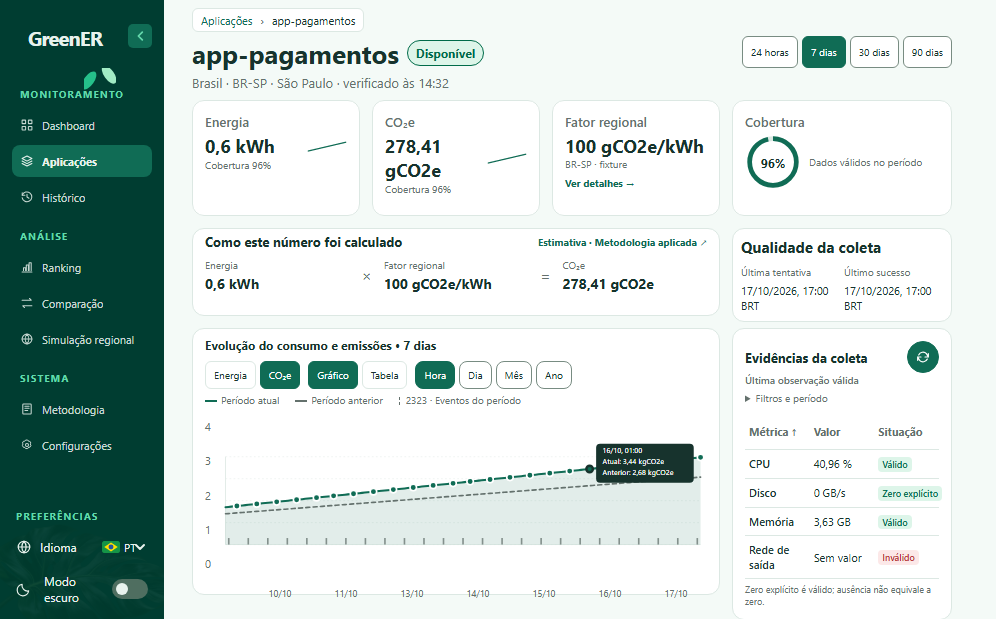
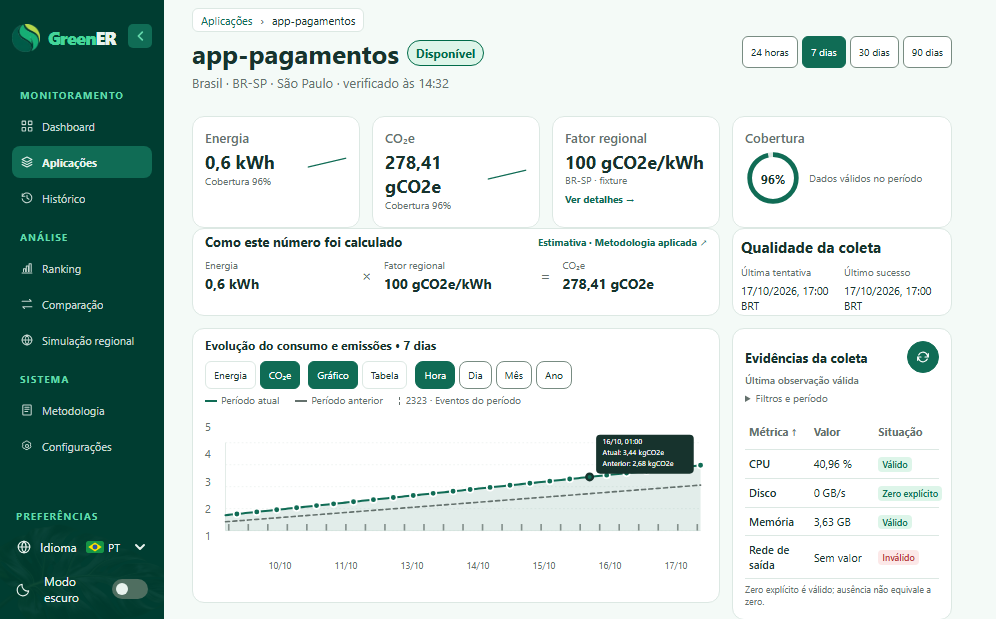
fix(frontend): estabilizar detalhe e escala ambiental

diff --git a/frontend/e2e/application-detail.spec.ts b/frontend/e2e/application-detail.spec.ts
@@ -73,10 +73,11 @@ test('detail reference viewport keeps the sidebar fixed and free of scrollbars',
       regions: (() => {
         const main = document.querySelector<HTMLElement>('main')!
         const analysis = main.children[2] as HTMLElement
-        const metricCards = analysis.children[0].querySelector<HTMLElement>('div')!
-        return [metricCards, analysis.children[1], analysis.children[2], analysis.children[3], analysis.children[4], analysis.children[5]].map(element => {
+        const noticeHeight = (analysis.children[0].children[1] as HTMLElement).getBoundingClientRect().height
+        const metricCards = analysis.children[0].querySelectorAll<HTMLElement>(':scope > div')[1]
+        return [metricCards.firstElementChild as HTMLElement, analysis.children[1].firstElementChild as HTMLElement, analysis.children[2], analysis.children[3].firstElementChild as HTMLElement, analysis.children[4], analysis.children[5]].map(element => {
           const rect = element.getBoundingClientRect()
-          return { className: (element as HTMLElement).className, x: rect.x, y: rect.y, width: rect.width, height: rect.height }
+          return { className: (element as HTMLElement).className, x: rect.x, y: rect.y, width: rect.width, height: rect.height, noticeHeight }
         })
       })(),
     }
@@ -89,12 +90,14 @@ test('detail reference viewport keeps the sidebar fixed and free of scrollbars',
   expect.soft(before.sidebarTop).toBe(0)
   expect.soft(before.sidebarRight).toBeGreaterThan(160)
   const [metrics, coverage, calculation, freshness, series, evidence] = before.regions
+  expect.soft(metrics.noticeHeight).toBe(16)
   expect.soft(metrics.x).toBeLessThan(coverage.x)
   expect.soft(Math.abs(metrics.y - coverage.y)).toBeLessThanOrEqual(2)
   expect.soft(Math.abs(metrics.height - coverage.height)).toBeLessThanOrEqual(2)
   expect.soft(calculation.x).toBe(metrics.x)
   expect.soft(freshness.x).toBe(coverage.x)
   expect.soft(Math.abs(calculation.y - freshness.y)).toBeLessThanOrEqual(2)
+  expect.soft(Math.abs(calculation.height - freshness.height)).toBeLessThanOrEqual(2)
   expect.soft(series.x).toBe(metrics.x)
   expect.soft(evidence.x).toBe(coverage.x)
   expect.soft(Math.abs(series.y - evidence.y)).toBeLessThanOrEqual(2)
@@ -116,7 +119,7 @@ test('detail reference viewport keeps the sidebar fixed and free of scrollbars',
   await expect(page.getByRole('group', { name: 'Métrica' }).getByRole('button', { name: 'CO₂e' })).toHaveAttribute('aria-pressed', 'true')
   await expect(page.locator('.eventSummary')).toHaveCount(0)
   await expect(page.getByText(/2323 · Eventos do período/)).toBeVisible()
-  await expect.poll(() => page.getByRole('figure', { name: /Evolução de CO₂e/ }).evaluate(chart => chart.getBoundingClientRect().height)).toBe(176)
+  await expect.poll(() => page.getByRole('figure', { name: /Evolução de CO₂e/ }).evaluate(chart => chart.getBoundingClientRect().height)).toBe(148)
   await expect(page.locator('[data-metric-sparkline]')).toHaveCount(2)
   await expect(page.locator('[data-coverage-ring]')).toHaveCount(1)
   await expect(page.getByRole('heading', { name: 'Evolução do consumo e emissões • 7 dias' })).toBeVisible()
@@ -149,7 +152,7 @@ test('detail reference viewport keeps the sidebar fixed and free of scrollbars',
   expect(afterScroll.layoutPosition).toBe('fixed')
   expect(afterScroll.sidebarTop).toBe(before.sidebarTop)
   await page.screenshot({ path: '../.github/evidencias/65-integracao-ambiental/detail-desktop-light-figma-alinhado.png' })
-  await page.getByRole('button', { name: 'Ver detalhes' }).click()
+  await page.getByRole('button', { name: 'Ver detalhes' }).click({ timeout: 10_000 })
   await expect(page.locator('#analysis-details')).toHaveAttribute('open', '')
   await expect(page.locator('#analysis-details')).toContainText('2026.1')
 
@@ -162,6 +165,7 @@ test('detail reference viewport keeps the sidebar fixed and free of scrollbars',
   })
   expect.soft(wideViewport.workspaceContentHeight).toBeLessThanOrEqual(wideViewport.workspaceHeight + 1)
   expect.soft(wideViewport.sidebarContentHeight).toBeLessThanOrEqual(wideViewport.sidebarHeight + 1)
+  await expect.poll(() => page.getByRole('figure', { name: /Evolução de CO₂e/ }).evaluate(chart => chart.getBoundingClientRect().height)).toBeGreaterThan(176)
   await page.screenshot({ path: '../.github/evidencias/65-integracao-ambiental/detail-desktop-wide-diagnostic.png' })
 
   await page.setViewportSize({ width: 390, height: 844 })
@@ -625,10 +629,13 @@ test('detail sidebar matches the catalog and collapses without clipping English'
   const languageCode = page.locator('.language-code')
   await expect(languageCode).toContainText('EN')
   const flagBounds = await languageCode.boundingBox()
+  const chevronBounds = await page.locator('.language-chevron').boundingBox()
   const sidebarBounds = await sidebar.boundingBox()
   expect(flagBounds).not.toBeNull()
+  expect(chevronBounds).not.toBeNull()
   expect(sidebarBounds).not.toBeNull()
   expect(flagBounds!.x + flagBounds!.width).toBeLessThanOrEqual(sidebarBounds!.x + sidebarBounds!.width)
+  expect(chevronBounds!.x - (flagBounds!.x + flagBounds!.width)).toBeGreaterThanOrEqual(12)
 
   await page.getByRole('button', { name: 'Collapse navigation' }).click()
   await expect.poll(() => sidebar.evaluate((element) => element.getBoundingClientRect().width)).toBe(72)

diff --git a/frontend/src/pages/detail/AnalysisSeries.tsx b/frontend/src/pages/detail/AnalysisSeries.tsx
@@ -1,7 +1,7 @@
 import { useEffect, useState, type ReactNode } from 'react'
 import type { AnalysisPresentationReason, AnalysisReading, AnalysisSeriesEvent, AnalysisSeriesPoint, AnalysisSeriesResult } from '../../features/analysis/source.ts'
 import { formatInstantForDateTimeInput, getBrowserTimeZone, parseDateTimeInputInZone, parseAnalysisSeriesPageSize, parseAnalysisSeriesReadingStatus, type AnalysisSeriesPageSize, type AnalysisSeriesQuery } from './seriesQuery.ts'
-import { collectSeriesUnits, formatSeriesNumber, formatSeriesReading, hasInvalidDateRange, readNumericRange, readSeriesRowRange, selectSeriesPoints } from './analysisSeriesData.ts'
+import { chartDomain, collectSeriesUnits, formatSeriesNumber, formatSeriesReading, hasInvalidDateRange, readNumericRange, readSeriesRowRange, selectSeriesPoints } from './analysisSeriesData.ts'
 import styles from './AnalysisSeries.module.css'
 
 type Labels = Readonly<{
@@ -144,12 +144,12 @@ function Chart({ points, comparisonPoints, events, metric, label, locale, timeZo
             : null
         })
         const validValues = [...values, ...comparisonValues].flatMap(point => point ? [point.value] : [])
-        const max = Math.max(...validValues)
-        const chartMax = Math.max(4, Math.ceil(max / 4) * 4)
+        const domain = chartDomain(validValues)
+        const chartRange = domain.maximum - domain.minimum
         const coordinates: (PlotPoint | null)[] = values.map(point => point && ({
           id: point.id,
           x: maxTime === minTime ? 300 : 8 + ((point.time - minTime) / (maxTime - minTime)) * 584,
-          y: 128 - (point.value / chartMax) * 108,
+          y: 128 - ((point.value - domain.minimum) / chartRange) * 108,
         }))
         const segments = chartSegments(coordinates, true)
         const interactivePoints = new Map<number, { point: PlotPoint; reading: NonNullable<typeof values[number]> }>()
@@ -178,7 +178,7 @@ function Chart({ points, comparisonPoints, events, metric, label, locale, timeZo
         const comparisonCoordinates: (PlotPoint | null)[] = comparisonValues.map(point => point && ({
           id: point.id,
           x: comparisonMaxTime === comparisonMinTime ? 300 : 8 + ((point.time - comparisonMinTime) / (comparisonMaxTime - comparisonMinTime)) * 584,
-          y: 128 - (point.value / chartMax) * 108,
+          y: 128 - ((point.value - domain.minimum) / chartRange) * 108,
         }))
         const comparisonSegments = chartSegments(comparisonCoordinates, false)
         const activePointIndex = chronological.findIndex(point => point.id === activePointId)
@@ -192,13 +192,13 @@ function Chart({ points, comparisonPoints, events, metric, label, locale, timeZo
         ])
         const hasGaps = chronological.some(point => point[metric].status !== 'available' || (point[metric].status === 'available' && point[metric].unit !== unit))
         return <div key={unit} className={styles.unitChart}>
-          <p className={styles.axisSummary}>0 - {formatAnalysisNumber(chartMax, locale)} {displayUnit}</p>
+          <p className={styles.axisSummary}>{formatAnalysisNumber(domain.minimum, locale)} - {formatAnalysisNumber(domain.maximum, locale)} {displayUnit}</p>
           <div className={styles.legend}><span className={styles.currentLegend}>{labels.currentPeriod}</span>
             {comparisonSegments.length > 0 && <span className={styles.previousLegend}>{labels.previousPeriod}</span>}
             {visibleEventCount > 0 && <span className={styles.eventLegend}>{visibleEventCount} · {labels.eventsHeading}</span>}</div>
           <div className={styles.plot}>
             <div className={styles.yAxis} aria-hidden="true">{Array.from({ length: 5 }, (_, index) =>
-              <span key={index}>{formatAnalysisNumber(chartMax * (4 - index) / 4, locale)}</span>)}</div>
+              <span key={index}>{formatAnalysisNumber(domain.maximum - domain.step * index, locale)}</span>)}</div>
             <figure className={styles.chartFigure} aria-label={`${label} (${displayUnit}): ${accessiblePoints}`}>
             <svg className={styles.chart} viewBox="0 0 600 144" role="group" aria-label={`${label} (${displayUnit}): ${accessiblePoints}`}>
               {Array.from({ length: 5 }, (_, index) => <line key={index} className={styles.grid} x1="8" y1={20 + index * 27} x2="592" y2={20 + index * 27} />)}

diff --git a/frontend/src/pages/detail/EnvironmentalAnalysis.module.css b/frontend/src/pages/detail/EnvironmentalAnalysis.module.css
@@ -1,14 +1,17 @@
-.analysisLayout { display: grid; grid-template-columns: minmax(0, 2.65fr) minmax(220px, 1fr); grid-template-rows: 116px 88px minmax(0, 1fr); gap: 12px; min-height: 0; }
+.analysisLayout { display: grid; grid-template-columns: minmax(0, 2.65fr) minmax(220px, 1fr); grid-template-rows: 120px 88px minmax(0, 1fr); gap: 12px; min-height: 0; }
 .screenReaderOnly { position: absolute; width: 1px; height: 1px; padding: 0; margin: -1px; overflow: hidden; border: 0; clip: rect(0, 0, 0, 0); white-space: nowrap; }
 .section { min-width: 0; margin: 0; }
-.analysisNotice { display: flex; align-items: center; flex-wrap: wrap; gap: 4px 12px; margin-bottom: 8px; color: var(--warning-foreground); font-size: 12px; }
+.analysisNotice { box-sizing: border-box; display: flex; height: 16px; min-height: 16px; align-items: center; flex-wrap: wrap; gap: 4px 12px; overflow: hidden; color: var(--warning-foreground); font-size: 12px; }
+.analysisNotice > output { line-height: 16px; white-space: nowrap; }
 .analysisNotice p, .analysisNotice output { margin: 0; font-size: inherit; }
 .analysisNotice :global(.action-button) { min-height: 28px; padding: 4px 12px; }
+.analysisError { display: flex; align-items: center; flex-wrap: wrap; gap: 4px 12px; }
 .seriesColumn, .evidenceColumn, .coverageColumn, .freshnessColumn, .contextColumn { min-width: 0; min-height: 0; }
 .section { grid-column: 1; grid-row: 1; }
-.coverageColumn { grid-column: 2; grid-row: 1; }
-.calculation { grid-column: 1; grid-row: 2; min-width: 0; min-height: 0; border: 1px solid var(--border-default); border-radius: 12px; padding: 8px 12px; background: var(--surface-card); }
-.freshnessColumn { grid-column: 2; grid-row: 2; }
+.coverageColumn { grid-column: 2; grid-row: 1; padding-top: 16px; }
+.calculation { grid-column: 1; grid-row: 2; min-width: 0; min-height: 0; height: 100%; border: 1px solid var(--border-default); border-radius: 12px; padding: 8px 12px; background: var(--surface-card); }
+.freshnessColumn { grid-column: 2; grid-row: 2; display: flex; }
+.freshnessColumn > * { width: 100%; height: 100%; box-sizing: border-box; }
 .seriesColumn { grid-column: 1; grid-row: 3; }
 .evidenceColumn { grid-column: 2; grid-row: 3; }
 .contextColumn { display: grid; grid-template-columns: repeat(2, minmax(0, 1fr)); gap: 12px; margin-top: 12px; }
@@ -54,6 +57,7 @@
 .unavailable .value { margin-bottom: 4px; color: var(--warning-foreground); font-size: 16px; }
 .unavailableValue { margin: 0; color: var(--text-secondary); }
 .coverageMetrics { display: grid; grid-template-columns: repeat(2, minmax(0, 1fr)); gap: 8px; }
+.coverage { height: 116px; min-height: 116px; align-self: start; }
 .coverageGauge { display: grid; grid-template-columns: 56px minmax(0, 1fr); align-items: center; gap: 8px; }
 .coverageGauge p { margin: 0; color: var(--text-secondary); font-size: 10px; line-height: 1.3; }
 .coverageRing { width: 56px; height: 56px; overflow: visible; }
@@ -90,6 +94,7 @@
 @media (max-width: 900px) {
   .analysisLayout { grid-template-columns: minmax(0, 1fr); grid-template-rows: auto; }
   .section, .coverageColumn, .calculation, .freshnessColumn, .seriesColumn, .evidenceColumn { grid-column: 1; grid-row: auto; }
+  .coverageColumn { padding-top: 0; }
   .metrics { grid-template-columns: repeat(2, minmax(0, 1fr)); }
   .contextColumn { grid-template-columns: 1fr; }
 }
@@ -101,4 +106,8 @@
   .factor { padding: 12px; }
   .factor dl { grid-template-columns: 1fr; }
   .coverageMetrics { grid-template-columns: 1fr; }
+}
+@media (min-width: 901px) and (max-height: 700px) {
+  .analysisLayout { grid-template-rows: 116px 88px minmax(0, 1fr); }
+  .metric, .coverage { height: 112px; min-height: 112px; }
 }

diff --git a/frontend/src/pages/detail/AnalysisSeries.module.css b/frontend/src/pages/detail/AnalysisSeries.module.css
@@ -1,4 +1,4 @@
-.section { display: flex; min-width: 0; height: 100%; flex-direction: column; margin: 0; border: 1px solid var(--border-default); border-radius: 12px; padding: 8px 12px; background: var(--surface-card); }
+.section { display: flex; min-width: 0; height: 100%; flex-direction: column; margin: 0; border: 1px solid var(--border-default); border-radius: 12px; padding: 8px 12px 0; background: var(--surface-card); }
 .screenReaderOnly { position: absolute; width: 1px; height: 1px; padding: 0; margin: -1px; overflow: hidden; border: 0; clip: rect(0, 0, 0, 0); white-space: nowrap; }
 .header { display: grid; gap: 8px; margin-bottom: 4px; }
 .header h2 { margin: 0; color: var(--text-primary); font-size: 12px; }
@@ -57,5 +57,7 @@
 .pagination button { cursor: pointer; transition: background-color 120ms ease, border-color 120ms ease, transform 80ms ease; }
 .pagination button:disabled { opacity: .55; cursor: not-allowed; }
 @media (min-width: 901px) { .chart { height: 176px; } }
+@media (min-width: 901px) and (max-height: 700px) { .chart { height: 148px; } }
+@media (min-width: 901px) and (min-height: 800px) { .charts { min-height: 0; flex: 1; } .chartGroup { display: flex; min-height: 0; flex: 1; flex-direction: column; } .unitChart { display: flex; min-height: 0; flex: 1; flex-direction: column; } .plot { min-height: 0; flex: 1; } .chartFigure { display: flex; min-height: 0; flex: 1; } .chart { height: clamp(240px, 36vh, 360px); } }
 @media (max-width: 640px) { .controls { width: 100%; max-width: 100%; min-width: 0; flex-wrap: wrap; } .toggle, .metricToggle { flex-wrap: wrap; } }
 @media (max-width: 480px) { .header { align-items: flex-start; flex-direction: column; gap: 8px; } .table th, .table td { padding: 12px; } }

diff --git a/frontend/src/pages/catalog/CatalogPage.tsx b/frontend/src/pages/catalog/CatalogPage.tsx
@@ -185,7 +185,7 @@ export function CatalogPage({ navigate }: Readonly<{ navigate: (url: string) => 
       <div className={styles['table-wrap']}><table><thead><tr>{columns.map((column) => {
         const sort = columnSort(column.key)
         return <th scope="col" key={column.key} aria-sort={sort.ariaSort}><button className={styles['sort-button']} onClick={() => toggleSort(column.key)}>{columnLabel(column)}<span aria-hidden="true">{sort.indicator}</span></button></th>
-      })}<th scope="col">{tCatalog('actions')}</th></tr></thead><tbody>{result.items.map((item) => <tr key={item.id}>{columns.map(({ key }) => <td key={key}>{displayCell(item, key)}</td>)}<td>{detailLink(item)}</td></tr>)}</tbody></table></div>
+      })}<th scope="col">{tCatalog('actions')}</th></tr></thead><tbody>{result.items.map((item) => <tr key={item.id} data-catalog-row-id={item.id}>{columns.map(({ key }) => <td key={key}>{displayCell(item, key)}</td>)}<td>{detailLink(item)}</td></tr>)}</tbody></table></div>
       <div className={styles['mobile-cards']}>{result.items.map((item) => <article className={styles['mobile-card']} key={item.id}><h2>{item.name}</h2>{columns.slice(1).map((column) => <div className={styles['mobile-field']} key={column.key}><strong>{columnLabel(column)}:</strong> {displayCell(item, column.key)}</div>)}{detailLink(item)}</article>)}</div>
       <div className={styles.pagination}>
         <span>{tCatalog('range', { start: (result.page - 1) * (query.pageSize === 'all' ? result.total : query.pageSize) + 1, end: Math.min(result.page * (query.pageSize === 'all' ? result.total : query.pageSize), result.total), count: result.total })}</span>

diff --git a/frontend/src/pages/detail/EnvironmentalAnalysis.tsx b/frontend/src/pages/detail/EnvironmentalAnalysis.tsx
@@ -449,6 +449,7 @@ export function EnvironmentalAnalysis({ data, status, locale, labels, onRetry, f
   return <div className={styles.analysisLayout}>
     <section className={styles.section} aria-labelledby="environmental-analysis-heading">
       <h2 id="environmental-analysis-heading" className={styles.sectionHeading}>{labels.heading}</h2>
+      <div className={styles.analysisNotice} aria-live="polite">
       {status === 'loading' && <output>{labels.loading}</output>}
       {status === 'refreshing' && <output>{labels.refreshing}</output>}
       {status === 'empty' && <output>{labels.empty}</output>}
@@ -458,11 +459,12 @@ export function EnvironmentalAnalysis({ data, status, locale, labels, onRetry, f
       {data?.series.status === 'available' && data.series.events && data.series.events.length > 0 && <ul className={styles.screenReaderOnly} aria-label={labels.seriesEventsHeading}>
         {data.series.events.map(event => <li key={event.id}>{labels.seriesEventSummary(event)}</li>)}
       </ul>}
-      {status === 'error' && <div className={styles.analysisNotice} role="alert">
+      {status === 'error' && <div className={styles.analysisError} role="alert">
         <p>{labels.error}</p>
         {data && <output>{labels.previousPreserved}</output>}
         <ActionButton onClick={onRetry}>{labels.retry}</ActionButton>
       </div>}
+      </div>
       {((status === 'unavailable' || status === 'error') && data === null && !preserveEmpty) && <UnavailableSlots labels={labels} />}
       {(invalidContext || emptyResult) && <EmptySlots labels={labels} />}
       {showData && data && <div className={styles.metrics}>

diff --git a/frontend/src/pages/detail/analysisSeriesData.ts b/frontend/src/pages/detail/analysisSeriesData.ts
@@ -5,6 +5,36 @@ import { formatNumber } from '../../utils/formatNumber.ts'
 
 export type SeriesMetric = 'energy' | 'emissions'
 
+export type ChartDomain = Readonly<{ minimum: number; maximum: number; step: number }>
+
+function nextNiceStep(step: number) {
+  const magnitude = 10 ** Math.floor(Math.log10(step))
+  const normalized = step / magnitude
+  const nice = normalized <= 1 ? 1 : normalized <= 2 ? 2 : normalized <= 2.5 ? 2.5 : normalized <= 5 ? 5 : 10
+  return nice * magnitude
+}
+
+export function chartDomain(values: readonly number[]): ChartDomain {
+  const finiteValues = values.filter(Number.isFinite)
+  if (finiteValues.length === 0) return { minimum: 0, maximum: 1, step: 0.25 }
+
+  const dataMinimum = Math.min(...finiteValues)
+  const dataMaximum = Math.max(...finiteValues)
+  const range = dataMaximum - dataMinimum
+  const padding = range > 0 ? range * 0.15 : Math.max(Math.abs(dataMaximum) * 0.05, 0.05)
+  const paddedMinimum = dataMinimum - padding
+  const paddedMaximum = dataMaximum + padding
+  let step = nextNiceStep((paddedMaximum - paddedMinimum) / 4)
+  let minimum = dataMinimum >= 0 ? Math.max(0, Math.floor(paddedMinimum / step) * step) : Math.floor(paddedMinimum / step) * step
+
+  while (minimum + step * 4 < paddedMaximum) {
+    step = nextNiceStep(step * 1.01)
+    minimum = dataMinimum >= 0 ? Math.max(0, Math.floor(paddedMinimum / step) * step) : Math.floor(paddedMinimum / step) * step
+  }
+
+  return { minimum, maximum: minimum + step * 4, step }
+}
+
 export type SeriesLabels = Readonly<{
   unavailable: string
   notCalculable: string

diff --git a/frontend/e2e/analysis-runtime-api.spec.ts b/frontend/e2e/analysis-runtime-api.spec.ts
@@ -97,8 +97,7 @@ test('mantém o resumo ambiental quando a consulta da série falha', async ({ pa
 test('mostra eventos retornados pela série sem arredondar os limites do período', async ({ page }) => {
   const from = '2026-10-10T20:00:37.456Z'
   const to = '2026-10-17T20:00:37.456Z'
-  await page.clock.install({ time: new Date(to) })
-  await page.clock.pauseAt(new Date(to))
+  await page.clock.setFixedTime(new Date(to))
   const ranges: Array<[string | null, string | null]> = []
   await page.route(/\/applications\/svc-0142\/analysis(?:\/series)?(?:\?.*)?$/, async (route) => {
     const url = new URL(route.request().url())
@@ -137,8 +136,7 @@ test('mostra eventos retornados pela série sem arredondar os limites do períod
 test('mantém eventos persistidos quando resumo e série não têm observações', async ({ page }) => {
   const to = '2026-10-17T20:00:00.000Z'
   const from = '2026-10-16T20:00:00.000Z'
-  await page.clock.install({ time: new Date(to) })
-  await page.clock.pauseAt(new Date(to))
+  await page.clock.setFixedTime(new Date(to))
   const ranges: Array<[string | null, string | null]> = []
   await page.route(/\/applications\/svc-0142\/analysis(?:\/series)?(?:\?.*)?$/, async (route) => {
     const url = new URL(route.request().url())

diff --git a/frontend/src/components/AppShell.css b/frontend/src/components/AppShell.css
@@ -34,7 +34,7 @@
 .sidebar .sidebar-preferences .language-control { position: relative; display: flex; align-items: center; gap: 8px; min-width: 0; min-height: 32px; color: var(--sidebar-text); }
 .sidebar .sidebar-preferences .language-control > svg { width: 16px; height: 16px; flex: 0 0 auto; fill: none; stroke: currentColor; stroke-linecap: round; stroke-linejoin: round; stroke-width: 1.5; }
 .language-label { min-width: 0; overflow: hidden; white-space: nowrap; font-size: 12px; }
-.language-code { display: inline-flex; flex: 0 0 auto; align-items: center; gap: 4px; margin-left: auto; margin-right: 12px; color: var(--sidebar-text); font-size: 11px; }
+.language-code { display: inline-flex; flex: 0 0 auto; align-items: center; gap: 4px; margin-left: auto; margin-right: 28px; color: var(--sidebar-text); font-size: 11px; }
 .language-flag { display: inline-flex; width: 18px; height: 12px; overflow: hidden; border-radius: 2px; }
 .language-flag svg { display: block; width: 100%; height: 100%; }
 .language-chevron { position: absolute; right: 0; width: 11px; height: 11px; fill: none; stroke: currentColor; stroke-linecap: round; stroke-linejoin: round; stroke-width: 1.4; pointer-events: none; }

diff --git a/frontend/tests/unit/analysisSeriesData.spec.ts b/frontend/tests/unit/analysisSeriesData.spec.ts
@@ -1,0 +1,24 @@
+import { expect, test } from '@playwright/test'
+import { chartDomain } from '../../src/pages/detail/analysisSeriesData.ts'
+
+test('chart domain expands a narrow range instead of flattening it against zero', () => {
+  const domain = chartDomain([0.935, 0.978])
+
+  expect(domain.minimum).toBeCloseTo(0.92)
+  expect(domain.maximum).toBeCloseTo(1)
+  expect(domain.step).toBeCloseTo(0.02)
+  expect(domain.minimum).toBeLessThanOrEqual(0.935)
+  expect(domain.maximum).toBeGreaterThanOrEqual(0.978)
+})
+
+test('chart domain remains stable for zero and identical values', () => {
+  expect(chartDomain([0, 0])).toEqual({ minimum: 0, maximum: 0.1, step: 0.025 })
+
+  const constantDomain = chartDomain([0.95, 0.95])
+  expect(constantDomain.minimum).toBeLessThan(0.95)
+  expect(constantDomain.maximum).toBeGreaterThan(0.95)
+})
+
+test('chart domain ignores non-finite values and supplies a usable empty domain', () => {
+  expect(chartDomain([Number.NaN, Number.POSITIVE_INFINITY])).toEqual({ minimum: 0, maximum: 1, step: 0.25 })
+})

diff --git a/frontend/src/pages/detail/ApplicationDetailPage.module.css b/frontend/src/pages/detail/ApplicationDetailPage.module.css
@@ -25,7 +25,7 @@
 .detail-card dt { margin-bottom: 4px; color: var(--text-secondary); font-size: 11px; }
 .detail-card dd { margin: 0; overflow-wrap: anywhere; color: var(--text-primary); font-size: 13px; font-weight: 600; }
 @media (min-width: 901px) {
-  :global(.content).detail-content { display: grid; grid-template-rows: 24px 60px minmax(0, 1fr); gap: 4px; padding: 8px 44px 24px 16px; }
+  :global(.content).detail-content { display: grid; grid-template-rows: 24px 60px minmax(0, 1fr); gap: 4px; padding: 8px 44px 16px 16px; }
   .detailTop { margin-bottom: 4px; }
   .locationSummary { margin-top: 4px; }
 }

diff --git a/frontend/e2e/support/catalog.ts b/frontend/e2e/support/catalog.ts
@@ -94,7 +94,7 @@ export async function unavailable(route: Route) {
 }
 
 export function row(page: Page, id: string) {
-  return page.getByRole('row').filter({ has: page.getByText(id, { exact: true }) })
+  return page.locator(`tr[data-catalog-row-id="${id.replaceAll('\\', '\\\\').replaceAll('"', '\\"')}"]`)
 }
 
 export function search(page: Page) {
